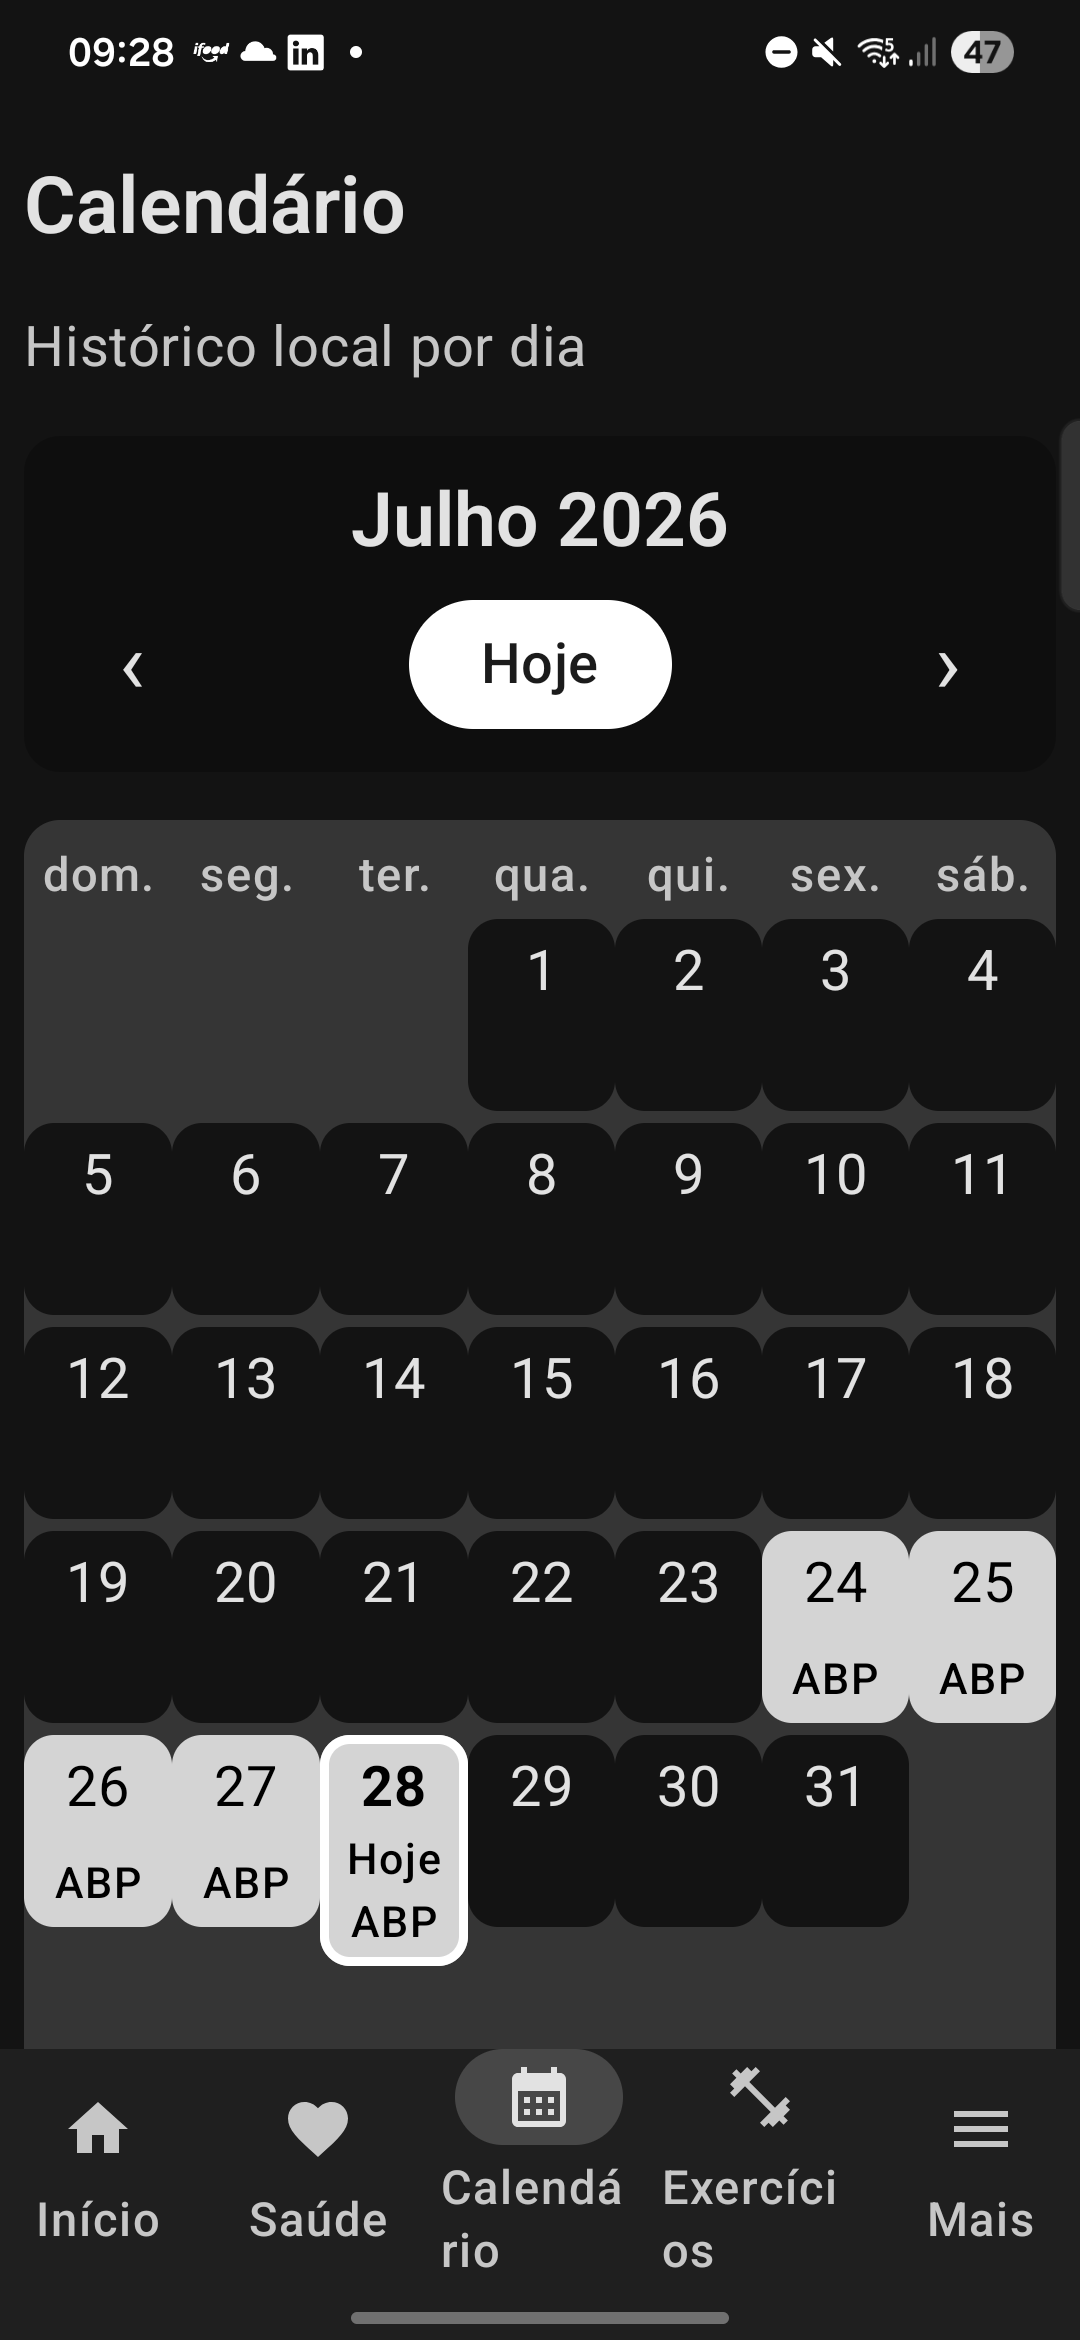
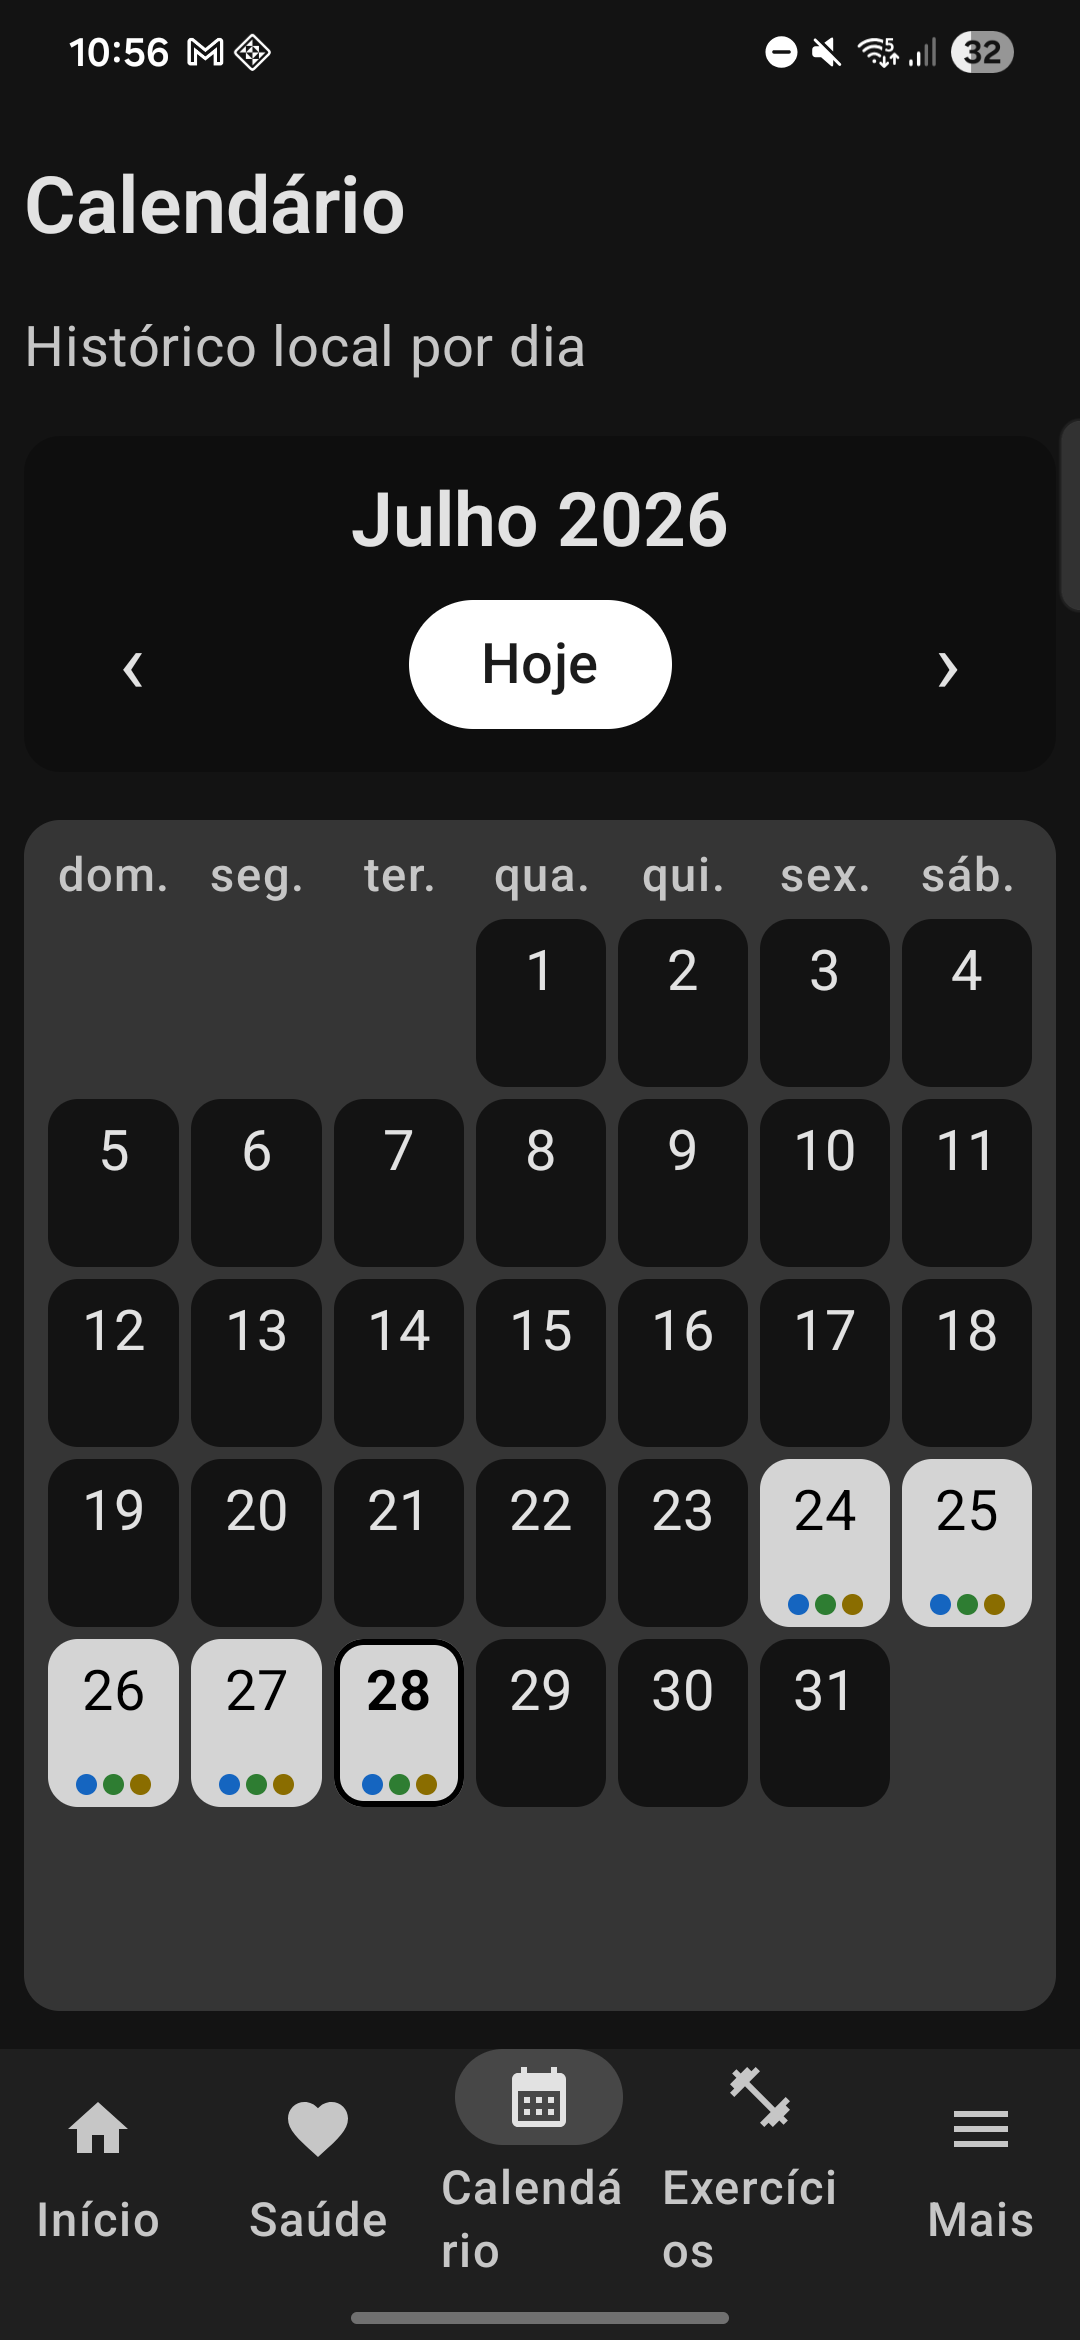
feat: substituir símbolos por pontos coloridos na grade do calendário e atualizar legenda

diff --git a/app/src/main/java/br/com/mwconsulting/championcompanion/feature/calendar/CalendarScreen.kt b/app/src/main/java/br/com/mwconsulting/championcompanion/feature/calendar/CalendarScreen.kt
@@ -2,6 +2,7 @@ package br.com.mwconsulting.championcompanion.feature.calendar
 
 import androidx.activity.ComponentActivity
 import androidx.activity.compose.LocalActivity
+import androidx.compose.foundation.background
 import androidx.compose.foundation.border
 import androidx.compose.foundation.clickable
 import androidx.compose.foundation.layout.Arrangement
@@ -14,7 +15,9 @@ import androidx.compose.foundation.layout.fillMaxWidth
 import androidx.compose.foundation.layout.height
 import androidx.compose.foundation.layout.heightIn
 import androidx.compose.foundation.layout.padding
+import androidx.compose.foundation.layout.size
 import androidx.compose.foundation.rememberScrollState
+import androidx.compose.foundation.shape.CircleShape
 import androidx.compose.foundation.shape.RoundedCornerShape
 import androidx.compose.foundation.verticalScroll
 import androidx.compose.material3.Button
@@ -32,6 +35,7 @@ import androidx.compose.runtime.remember
 import androidx.compose.ui.Alignment
 import androidx.compose.ui.Modifier
 import androidx.compose.ui.graphics.Color
+import androidx.compose.ui.graphics.luminance
 import androidx.compose.ui.semantics.Role
 import androidx.compose.ui.semantics.contentDescription
 import androidx.compose.ui.semantics.heading
@@ -241,10 +245,16 @@ private fun MonthCalendar(
 
     Card(modifier = Modifier.fillMaxWidth()) {
         Column(
-            modifier = Modifier.padding(vertical = ChampionSpacing.small),
+            modifier = Modifier.padding(
+                horizontal = ChampionSpacing.small,
+                vertical = ChampionSpacing.small,
+            ),
             verticalArrangement = Arrangement.spacedBy(ChampionSpacing.extraSmall),
         ) {
-            Row(modifier = Modifier.fillMaxWidth()) {
+            Row(
+                modifier = Modifier.fillMaxWidth(),
+                horizontalArrangement = Arrangement.spacedBy(ChampionSpacing.extraSmall),
+            ) {
                 weekdays.forEach { dayOfWeek ->
                     Text(
                         text = dayOfWeek.getDisplayName(TextStyle.SHORT, locale),
@@ -260,7 +270,10 @@ private fun MonthCalendar(
                 }
             }
             dates.chunked(7).forEach { week ->
-                Row(modifier = Modifier.fillMaxWidth()) {
+                Row(
+                    modifier = Modifier.fillMaxWidth(),
+                    horizontalArrangement = Arrangement.spacedBy(ChampionSpacing.extraSmall),
+                ) {
                     week.forEach { date ->
                         if (date == null) {
                             EmptyCalendarCell()
@@ -286,7 +299,7 @@ private fun RowScope.EmptyCalendarCell() {
     Box(
         modifier = Modifier
             .weight(1f)
-            .heightIn(min = 64.dp),
+            .heightIn(min = 56.dp),
     )
 }
 
@@ -313,22 +326,21 @@ private fun RowScope.CalendarDayCell(
         presence?.hasSteps == true -> MaterialTheme.colorScheme.surfaceVariant
         else -> MaterialTheme.colorScheme.surface
     }
+    val cellContentColor = calendarCellContentColor(presence)
     val borderColor = when {
+        isToday -> cellContentColor
         isSelected -> MaterialTheme.colorScheme.primary
-        isToday -> MaterialTheme.colorScheme.outline
         else -> Color.Transparent
     }
     val borderWidth = when {
-        isSelected -> 3.dp
         isToday -> 2.dp
+        isSelected -> 3.dp
         else -> 0.dp
     }
-    val cellContentColor = calendarCellContentColor(presence)
-
     Surface(
         modifier = Modifier
             .weight(1f)
-            .heightIn(min = 64.dp)
+            .heightIn(min = 56.dp)
             .border(borderWidth, borderColor, RoundedCornerShape(10.dp))
             .clickable(onClick = onClick)
             .semantics(mergeDescendants = true) {
@@ -349,37 +361,55 @@ private fun RowScope.CalendarDayCell(
         ) {
             Text(
                 text = date.dayOfMonth.toString(),
+                color = cellContentColor,
                 style = MaterialTheme.typography.bodyMedium,
                 fontWeight = if (isSelected || isToday) FontWeight.Bold else FontWeight.Normal,
             )
-            if (isToday) {
-                Text(
-                    text = "Hoje",
-                    color = cellContentColor,
-                    maxLines = 1,
-                    style = MaterialTheme.typography.labelSmall,
-                )
-            }
-            CalendarPresenceMarkers(presence, cellContentColor)
+            CalendarPresenceMarkers(presence, background)
         }
     }
 }
 
 @Composable
-private fun CalendarPresenceMarkers(presence: CalendarDayPresence?, markerColor: Color) {
-    Text(
-        text = buildString {
-            if (presence?.hasSyncFailure == true) append("!")
-            if (presence?.hasSyncPending == true) append("…")
-            if ((presence?.workoutCount ?: 0) > 0) append("A")
-            if (presence?.hasHeartRate == true) append("B")
-            if (presence?.hasSteps == true) append("P")
-            if (presence?.hasWeight == true) append("W")
-        },
-        modifier = Modifier,
-        color = markerColor,
-        style = MaterialTheme.typography.labelSmall,
+private fun CalendarPresenceMarkers(presence: CalendarDayPresence?, background: Color) {
+    Row(horizontalArrangement = Arrangement.spacedBy(2.dp)) {
+        if (presence?.hasSteps == true) {
+            CalendarPresenceDot(calendarStepsColor(background))
+        }
+        if (presence?.hasHeartRate == true) {
+            CalendarPresenceDot(calendarHeartRateColor(background))
+        }
+        if ((presence?.workoutCount ?: 0) > 0) {
+            CalendarPresenceDot(calendarActivityColor(background))
+        }
+    }
+}
+
+@Composable
+private fun CalendarPresenceDot(color: Color) {
+    Box(
+        modifier = Modifier
+            .size(7.dp)
+            .background(color, CircleShape),
     )
+}
+
+private fun calendarStepsColor(background: Color): Color = if (background.luminance() > 0.5f) {
+    Color(0xFF1565C0)
+} else {
+    Color(0xFF64B5F6)
+}
+
+private fun calendarHeartRateColor(background: Color): Color = if (background.luminance() > 0.5f) {
+    Color(0xFF2E7D32)
+} else {
+    Color(0xFF81C784)
+}
+
+private fun calendarActivityColor(background: Color): Color = if (background.luminance() > 0.5f) {
+    Color(0xFF8A6D00)
+} else {
+    Color(0xFFFFD54F)
 }
 
 @Composable
@@ -403,17 +433,47 @@ private fun CalendarLegend() {
             verticalArrangement = Arrangement.spacedBy(ChampionSpacing.extraSmall),
         ) {
             Text("Legenda", style = MaterialTheme.typography.titleSmall, fontWeight = FontWeight.SemiBold)
-            Text(
-                "Indicadores: ! falha, … pendência, A atividade, B BPM, P passos e W peso.",
-                color = MaterialTheme.colorScheme.onSurfaceVariant,
-                style = MaterialTheme.typography.bodySmall,
-            )
-            Text(
-                "A prioridade visual é falha/pendência, atividade, BPM e passos.",
-                color = MaterialTheme.colorScheme.onSurfaceVariant,
-                style = MaterialTheme.typography.bodySmall,
-            )
+            val legendBackground = MaterialTheme.colorScheme.surfaceContainerLow
+            CalendarLegendItem("Passos", calendarStepsColor(legendBackground))
+            CalendarLegendItem("Frequência cardíaca", calendarHeartRateColor(legendBackground))
+            CalendarLegendItem("Atividade física", calendarActivityColor(legendBackground))
+            CalendarLegendStateItem("Falha de sincronização", MaterialTheme.colorScheme.errorContainer)
+            CalendarLegendStateItem("Sincronização pendente", MaterialTheme.colorScheme.tertiaryContainer)
         }
+    }
+}
+
+@Composable
+private fun CalendarLegendItem(label: String, color: Color) {
+    Row(
+        verticalAlignment = Alignment.CenterVertically,
+        horizontalArrangement = Arrangement.spacedBy(ChampionSpacing.extraSmall),
+    ) {
+        CalendarPresenceDot(color)
+        Text(
+            label,
+            color = MaterialTheme.colorScheme.onSurfaceVariant,
+            style = MaterialTheme.typography.bodySmall,
+        )
+    }
+}
+
+@Composable
+private fun CalendarLegendStateItem(label: String, color: Color) {
+    Row(
+        verticalAlignment = Alignment.CenterVertically,
+        horizontalArrangement = Arrangement.spacedBy(ChampionSpacing.extraSmall),
+    ) {
+        Box(
+            modifier = Modifier
+                .size(12.dp)
+                .background(color, RoundedCornerShape(3.dp)),
+        )
+        Text(
+            label,
+            color = MaterialTheme.colorScheme.onSurfaceVariant,
+            style = MaterialTheme.typography.bodySmall,
+        )
     }
 }
 

diff --git a/docs/tasks/015-calendar-consolidated-history/015-07-implement-month-calendar-grid-markers-and-accessibility.md b/docs/tasks/015-calendar-consolidated-history/015-07-implement-month-calendar-grid-markers-and-accessibility.md
@@ -1,6 +1,6 @@
 # 015-07 — Implementar grade mensal, marcadores e acessibilidade
 
-- **Status:** concluída em 28/07/2026.
+- **Status:** concluída em 28/07/2026; refinamento visual concluído em 28/07/2026.
 - **Objetivo:** substituir placeholder por calendário mensal local e acessível.
 - **Resultado esperado:** grade funcional com navegação, seleção, Hoje,
   indicadores e legenda.
@@ -101,23 +101,44 @@ mensal sobre snapshots já fornecidos.
   `LocalConfiguration` na localidade atual; validação manual usou `pt-BR`.
 - Células fora do mês são espaços não acionáveis. Datas vazias do mês continuam
   selecionáveis e não criam valores.
-- Indicadores usam símbolos `!`, `…`, `A`, `B`, `P` e `W`, com prioridade de
-  fundo para falha/pendência, atividade, BPM e passos.
+- Indicadores usam pontos coloridos somente para passos (azul), frequência
+  cardíaca (verde) e atividade física (amarelo), na ordem azul, verde e amarelo.
+- Números das datas usam mesma cor de conteúdo dos indicadores da presença, para
+  manter contraste explícito nos dias com atividade.
+- A borda de Hoje usa essa cor de conteúdo e tem prioridade sobre a borda de
+  seleção, evitando baixo contraste quando Hoje também está selecionado.
+- Espaçamento horizontal da grade usa `ChampionSpacing.extraSmall`, igual ao
+  espaçamento vertical; células usam somente largura disponível da viewport,
+  sem largura forçada ou deslocamento horizontal.
+- AndroidX Material 3 `DatePicker` foi avaliado, mas não oferece marcadores de
+  presença por célula; `CalendarView` também não atende à grade Compose com
+  indicadores. A grade própria foi mantida, corrigindo o overflow na origem.
+- Altura mínima das células foi reduzida de 64 dp para 56 dp. O texto visual
+  `Hoje` foi removido da célula; destaque por borda/negrito e descrição acessível
+  permanecem, evitando empilhamento com os marcadores.
+- A grade recebe `ChampionSpacing.small` de respiro horizontal interno, evitando
+  contato visual direto entre células e bordas do card.
+- Falha e pendência mantêm fundo de estado para preservar prioridade visual da
+  spec, mas não geram pontos ou símbolos; peso permanece somente na descrição
+  acessível e no detalhe.
+- Legenda identifica fundos de falha e pendência separadamente dos três pontos
+  métricos.
 - Issues do snapshot permanecem visíveis como estado parcial após seleção; retry
   mensal reinicia `Load` do mês, sem confundir erro diário com erro mensal.
-- Nenhum desvio aprovado; orientação permaneceu portrait porque o dispositivo
-  não alternou para landscape durante validação forçada.
+- Nenhum desvio aprovado; landscape foi usado somente para smoke visual, sem
+  alterar o contrato portrait-first da tela.
 
 ## Screenshot
 
 - `015-07-calendar-grid.png`: Julho de 2026, dados locais, seleção, Hoje e
-  indicadores `ABP`.
+  pontos coloridos; captura atualizada após ajuste de contraste, espaçamento,
+  proporção compacta e cores.
 - `015-07-calendar-next-month.png`: Agosto de 2026, navegação para mês sem
   indicadores.
 - `015-07-calendar-font-scale.png`: escala de fonte 1.3, grade sem corte ou
-  sobreposição.
-- `015-07-calendar-landscape.png`: tentativa de rotação forçada; app permaneceu
-  portrait.
+  sobreposição, com pontos coloridos.
+- `015-07-calendar-landscape.png`: rotação forçada após refinamento; primeiros
+  rows da grade permaneceram dentro da largura disponível.
 
 ## Riscos residuais
 
@@ -127,20 +148,30 @@ mensal sobre snapshots já fornecidos.
 - Loading e erro de fonte não foram reproduzidos com fonte local real durante
   smoke manual; estados permanecem cobertos por fluxo de `CalendarViewModel` e
   ações recuperáveis na UI.
-- O dispositivo não alternou para landscape; comportamento registrado como
-  portrait-only, sem alterar contrato da subtarefa.
+- Landscape foi capturado após rotação forçada; navegação inferior permanece
+  sobreposta à área inferior da tela durante o smoke manual.
 
 ## Comandos executados
 
 - `./gradlew :app:compileDebugKotlin` — sucesso após correções intermediárias.
 - `./gradlew lint assembleDebug assembleRelease` — sucesso.
+- `./gradlew :app:compileDebugKotlin installDebug` — sucesso após o refinamento
+  visual; APK instalado no `SM-S901E - 16`.
+- `./gradlew :app:compileDebugKotlin installDebug` — sucesso após compactação da
+  grade; APK instalado no `SM-S901E - 16`.
+- `./gradlew :app:compileDebugKotlin installDebug` — sucesso após troca dos
+  indicadores por pontos coloridos; APK instalado no `SM-S901E - 16`.
+- `./gradlew lint assembleDebug assembleRelease` — sucesso no estado final, após
+  pontos coloridos e refinamentos de layout.
 - `./gradlew installDebug` — sucesso no `SM-S901E - 16`.
 - `adb shell am force-stop ... && adb shell am start ...` — sucesso.
 - `adb shell input tap ...` — navegação para Calendário, mês anterior/próximo,
   seleção e Hoje.
+- `adb exec-out screencap -p > /var/folders/_r/sp91m8xn4zv3_wwh1wq46_cm0000gn/T/opencode/calendar-contrast.png` — screenshot do refinamento visual; cópia registrada em `015-07-calendar-grid.png`.
+- `adb exec-out screencap -p > /var/folders/_r/sp91m8xn4zv3_wwh1wq46_cm0000gn/T/opencode/calendar-colors.png` — screenshot final dos pontos coloridos; cópia registrada em `015-07-calendar-grid.png`.
 - `adb shell settings put system font_scale 1.3` — validação de escala; valor
   restaurado para `1.0`.
-- `adb shell settings put system user_rotation 1` — tentativa de landscape;
+- `adb shell settings put system user_rotation 1` — smoke visual em landscape;
   valor restaurado para `0`.
 - `adb shell uiautomator dump ...` — 41 content descriptions inspecionadas.
 - Testes automatizados não criados, alterados ou executados.
@@ -157,6 +188,23 @@ mensal sobre snapshots já fornecidos.
 - Navegação para Agosto e retorno por Hoje funcionaram; data vazia/futura foi
   selecionável sem indicador inventado.
 - Escala 1.3 preservou grade e contraste dos marcadores.
+- Screenshot atualizado confirmou números de datas com contraste nos dias de
+  atividade, borda escura e legível em Hoje selecionado e gaps horizontais de
+  4 dp, iguais aos verticais; grade permaneceu integralmente dentro da viewport
+  no Galaxy S22.
+- Correção posterior removeu `requiredWidth`/`offset` e confirmou ausência de
+  corte lateral no calendário.
+- Compactação posterior confirmou células de 56 dp e Hoje sem empilhamento
+  visual com pontos coloridos.
+- Respiro interno posterior confirmou distância visível de 8 dp entre grade e
+  bordas laterais do card.
+- Pontos finais confirmaram azul para passos, verde para frequência cardíaca e
+  amarelo para atividade física; sincronização preserva somente fundo de estado
+  e peso não renderiza ponto.
+- Legenda final diferencia pontos métricos de fundos de falha e pendência.
+- Screenshots auxiliares de próximo mês, escala 1.3 e landscape
+  foram recapturados após troca dos indicadores; Agosto, escala 1.3 e a grade
+  em landscape ficaram registrados nos arquivos correspondentes.
 - Não houve operações BLE, Health Connect, migration, DAO, repository ou
   biblioteca externa.
 

diff --git a/docs/tasks/015-calendar-consolidated-history/015-00-overview.md b/docs/tasks/015-calendar-consolidated-history/015-00-overview.md
@@ -118,8 +118,14 @@ registrada separadamente, com justificativa e decisão própria.
   retryable e shells de passos/distância isolados em arquivos próprios.
 - `015-07` concluída com grade mensal própria, indicadores, seleção, navegação,
   estados seguros e descrições acessíveis; screenshots e build registrados na
-  subtarefa. TalkBack falado e landscape permanecem riscos residuais, sem
-  bloqueio de contrato.
+  subtarefa. Refinamento posterior confirmou contraste explícito nos números,
+  borda de Hoje e gaps horizontais iguais aos verticais. Correção posterior
+  removeu largura forçada que causava overflow; TalkBack falado e landscape
+  permanecem riscos residuais, com sobreposição da navegação inferior em
+  landscape, sem bloqueio de contrato. Compactação posterior
+  reduziu células para 56 dp, removeu empilhamento visual de Hoje com marcadores
+  e adicionou respiro interno entre grade e bordas do card. Indicadores finais
+  usam pontos azul/verde/amarelo para passos, FC e atividade física.
 - Não há bloqueio para `015-09` ou `015-10`; status `Planejada` no cabeçalho de `012-00`,
   status conflitante de `012-13` e evidência incompleta do Gate C permanecem
   riscos documentais da Fase 12.
